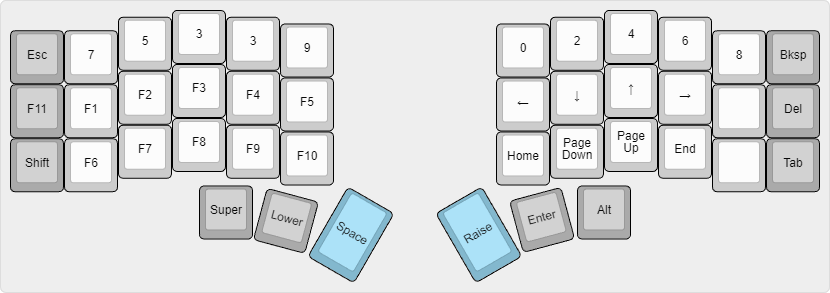
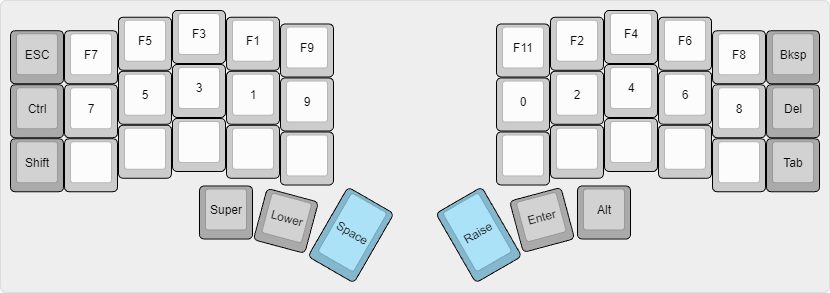
update readme & added bluetooth

diff --git a/README.md b/README.md
@@ -1,12 +1,15 @@
-# Joshua Markle's ZMK Keymap ⌨
+# JoshuaMarkle's ZMK Keymap ⌨
 
 This is my personal [ZMK firmware](https://github.com/zmkfirmware/zmk/) configuration for a [Corne Keyboard](https://github.com/foostan/crkbd). All design choices are talored for programmers using the DOVARK layout!
+
+I have also created a [Build Guide](doc/Build-Guide.md) specifically for my wireless Corne Cherry!
 
 ![corne.png](doc/images/corne.png)
 
 ## The Keymap
 
 #### Base Layer
+
 ![Corne Default](doc/images/corne-base.png)
 
 #### Symbol Layer (Upper)
@@ -16,6 +19,10 @@ This is my personal [ZMK firmware](https://github.com/zmkfirmware/zmk/) configur
 #### Functional Layer (Lower)
 
 ![Corne Upper](doc/images/corne-function.png)
+
+#### Tri Layer (Upper + Lower)
+
+![Corne Tri](doc/images/corne-tri.png)
 
 All visualizations were created on [keyboard-layout-editor.com](http://www.keyboard-layout-editor.com/)
 
@@ -51,12 +58,12 @@ All visualizations were created on [keyboard-layout-editor.com](http://www.keybo
 [{y:-0.875,x:5},"",{x:3},""],
 [{y:-0.875,c:"#aaaaaa"},"Esc",{c:"#cccccc"},"'",{x:11},"%",{c:"#aaaaaa"},"Bksp",{c:"#cccccc"}],
 [{y:-0.375,x:3},"+",{x:7},")"],
-[{y:-0.875,x:2},"?",{x:1},"=",{x:5},":",{x:1},"("],
+[{y:-0.875,x:2},"-",{x:1},"=",{x:5},":",{x:1},"("],
 [{y:-0.875,x:5},"#",{x:3},"|"],
 [{y:-0.875,c:"#aaaaaa"},"Ctrl",{c:"#cccccc"},"!",{x:11},"?",{c:"#aaaaaa"},"Del",{c:"#cccccc"}],
-[{y:-0.375,x:3},"=",{x:7},"]"],
-[{y:-0.875,x:2,a:7},"/",{x:1},"\\",{x:5},"",{x:1},"["],
-[{y:-0.875,x:5,a:7},"$",{x:3},"~"],
+[{y:-0.375,x:3},"*",{x:7},"]"],
+[{y:-0.875,x:2,a:7},"/",{x:1},"\\",{x:5},"~",{x:1},"["],
+[{y:-0.875,x:5,a:7},"$",{x:3},"`"],
 [{y:-0.875,c:"#aaaaaa"},"Shift",{c:"#cccccc"},"^",{x:11},"@",{c:"#aaaaaa"},"Tab"],
 <br>[{rx:3.5,ry:4.25,y:-1},"Super"],
 [{rx:10.5,y:-1},"Alt"],
@@ -68,18 +75,18 @@ All visualizations were created on [keyboard-layout-editor.com](http://www.keybo
 <br>Functional Layer
 <br><br>
 <pre>
-[{x:3,a:7},">",{x:7},"}"],
-[{y:-0.875,x:2},"\"",{x:1},"_",{x:5},"&",{x:1},"{"],
-[{y:-0.875,x:5},"",{x:3},""],
-[{y:-0.875,c:"#aaaaaa"},"Esc",{c:"#cccccc"},"'",{x:11},"%",{c:"#aaaaaa"},"Bksp",{c:"#cccccc"}],
-[{y:-0.375,x:3},"+",{x:7},")"],
-[{y:-0.875,x:2},"?",{x:1},"=",{x:5},":",{x:1},"("],
-[{y:-0.875,x:5},"#",{x:3},"|"],
-[{y:-0.875,c:"#aaaaaa"},"Ctrl",{c:"#cccccc"},"!",{x:11},"?",{c:"#aaaaaa"},"Del",{c:"#cccccc"}],
-[{y:-0.375,x:3},"=",{x:7},"]"],
-[{y:-0.875,x:2,a:7},"/",{x:1},"\\",{x:5},"",{x:1},"["],
-[{y:-0.875,x:5,a:7},"$",{x:3},"~"],
-[{y:-0.875,c:"#aaaaaa"},"Shift",{c:"#cccccc"},"^",{x:11},"@",{c:"#aaaaaa"},"Tab"],
+[{x:3,a:7},"F3",{x:7},"F4"],
+[{y:-0.875,x:2},"F5",{x:1},"F1",{x:5},"F2",{x:1},"F6"],
+[{y:-0.875,x:5},"F9",{x:3},"F11"],
+[{y:-0.875,c:"#aaaaaa"},"ESC",{c:"#cccccc"},"F7",{x:11},"F8",{c:"#aaaaaa"},"Bksp",{c:"#cccccc"}],
+[{y:-0.375,x:3},"3",{x:7},"4"],
+[{y:-0.875,x:2},"5",{x:1},"1",{x:5},"2",{x:1},"6"],
+[{y:-0.875,x:5},"9",{x:3},"0"],
+[{y:-0.875,c:"#aaaaaa"},"Ctrl",{c:"#cccccc"},"7",{x:11},"8",{c:"#aaaaaa"},"Del",{c:"#cccccc"}],
+[{y:-0.375,x:3},"",{x:7},""],
+[{y:-0.875,x:2,a:7},"",{x:1},"",{x:5},"",{x:1},""],
+[{y:-0.875,x:5,a:7},"",{x:3},""],
+[{y:-0.875,c:"#aaaaaa"},"Shift",{c:"#cccccc"},"",{x:11},"",{c:"#aaaaaa"},"Tab"],
 <br>[{rx:3.5,ry:4.25,y:-1},"Super"],
 [{rx:10.5,y:-1},"Alt"],
 [{r:15,rx:4.5,y:-1},"Lower"],
@@ -87,6 +94,21 @@ All visualizations were created on [keyboard-layout-editor.com](http://www.keybo
 [{r:-30,rx:8.375,ry:4.625,y:-1,h:1.5},"Raise"],
 [{r:-15,rx:9.5,ry:4.5,y:-1,c:"#aaaaaa"},"Enter"]
 </pre>
+<br>Tri Layer
+<br><br>
+<pre>
+[{x:3,a:7},"BT2",{x:7},""],
+[{y:-0.875,x:2},"BT1",{x:1},"",{x:5},"",{x:1},""],
+[{y:-0.875,x:5},"BT CLR",{x:3},""],
+[{y:-0.875,c:"#aaaaaa"},"ESC",{c:"#cccccc"},"BT0",{x:11},"→",{c:"#aaaaaa"},"Bksp",{c:"#cccccc"}],
+[{y:-0.375,x:3},"",{x:7},""],
+[{y:-0.875,x:2},"",{x:1},"",{x:5},"←",{x:1},""],
+[{y:-0.875,x:5},"",{x:3},""],
+[{y:-0.875,c:"#aaaaaa"},"Ctrl",{c:"#cccccc"},"",{x:11},"",{c:"#aaaaaa"},"Del",{c:"#cccccc"}],
+[{y:-0.375,x:3},"↓",{x:7},""],
+[{y:-0.875,x:2,a:7},"",{x:1},"↑",{x:5},"",{x:1},""],
+[{y:-0.875,x:5,a:7},"",{x:3},""],
+[{y:-0.875,c:"#aaaaaa"},"Shift",{c:"#cccccc"},"",{x:11},"",{c:"#aaaaaa"},"Tab"],
 <br>[{rx:3.5,ry:4.25,y:-1},"Super"],
 [{rx:10.5,y:-1},"Alt"],
 [{r:15,rx:4.5,y:-1},"Lower"],
@@ -96,9 +118,7 @@ All visualizations were created on [keyboard-layout-editor.com](http://www.keybo
 </pre>
 </details>
 
-#### Keymapping
+#### Inspiration
 
 - [Designing a Symbol Layer by Pascal Getreuer](https://getreuer.info/posts/keyboards/symbol-layer/index.html)
 - [DreymaR's Big Bag of KBD Tricks](https://dreymar.colemak.org/layers-main.html)
-
-I have also created a [Build Guide](doc/Build-Guide.md) specifically for my wireless Corne Cherry!
